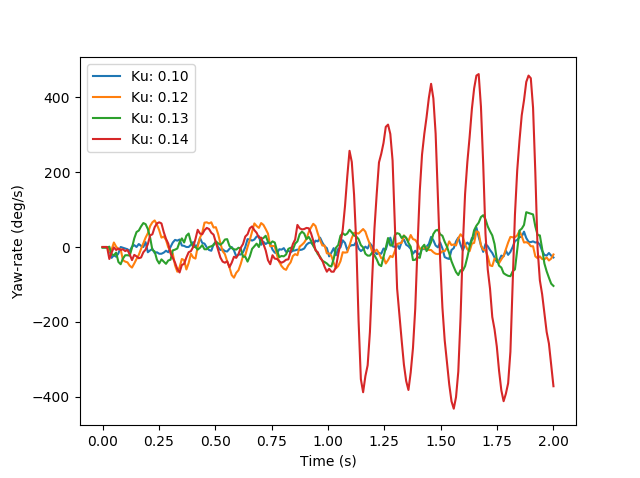
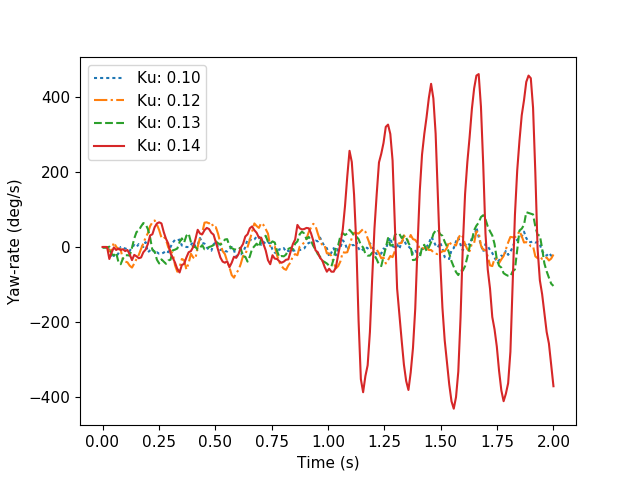
Make figures uniform

diff --git a/Code/Python/Plot pid data/plot_pid_data.py b/Code/Python/Plot pid data/plot_pid_data.py
@@ -111,7 +111,7 @@ if 0:
     plt.plot(data)
     plt.show()
 
-if 0:
+if 1:
     data1 = read_list_csv("pid_data/straight_kp010_osc_200.csv")
     data2 = read_list_csv("pid_data/straight_kp012_osc_200.csv")
     data3 = read_list_csv("pid_data/straight_kp013_osc_200.csv")
@@ -119,23 +119,27 @@ if 0:
 
     plt.figure(1)
     x = np.linspace(0, 2, 200)
-    plt.plot(x, data1)
-    plt.plot(x, data2)
-    plt.plot(x, data3)
-    plt.plot(x, data4)
+    plt.plot(x, data1, ':')
+    plt.plot(x, data2, '-.')
+    plt.plot(x, data3, '--')
+    plt.plot(x, data4, '-')
 
-    plt.ylabel('Yaw-rate (deg/s)')
-    plt.xlabel('Time (s)')
-    plt.legend(('Ku: 0.10', 'Ku: 0.12','Ku: 0.13', 'Ku: 0.14'))
+    plt.ylabel('Yaw-rate (deg/s)', fontsize=11)
+    plt.xlabel('Time (s)', fontsize=11)
+    plt.xticks(fontsize=11)
+    plt.yticks(fontsize=11)
+    plt.legend(('Ku: 0.10', 'Ku: 0.12','Ku: 0.13', 'Ku: 0.14'), loc='upper left', fontsize=11)
 
     plt.figure(2)
     # avg = savgol_filter(data3, 5, 2)  # window size 51, polynomial order 3
     data5 = read_list_csv("pid_data/straight_kp013_tu20_200.csv")
 
-    plt.plot(x, data3)
-    plt.plot(x, data5)
-    plt.ylabel('Yaw-rate (deg/s)')
-    plt.xlabel('Time (s)')
-    plt.legend(('Ku: 0.13, Tu = 0', 'Ku: 0.13, Tu = 0.20'))
+    plt.plot(x, data3, ':')
+    plt.plot(x, data5, '-.')
+    plt.ylabel('Yaw-rate (deg/s)', fontsize=11)
+    plt.xlabel('Time (s)', fontsize=11)
+    plt.xticks(fontsize=11)
+    plt.yticks(fontsize=11)
+    plt.legend(('Ku: 0.13, Tu = 0', 'Ku: 0.13, Tu = 0.20'), loc='upper left', fontsize=11)
 
     plt.show()

diff --git a/Latex/Thesis/chapters/implementation.tex b/Latex/Thesis/chapters/implementation.tex
@@ -246,13 +246,13 @@ The tuning process was sped up by setting the minimum motor duty-cycle as it mad
 
 %TODO -Add figure with critcial gain + mark period Tu
 
-\begin{figure}[!tbp]
-	\begin{subfigure}[b]{0.5\textwidth}
+\begin{figure}
+	\begin{subfigure}[b]{0.49\textwidth}
 		\includegraphics[width=\textwidth]{pics/straight_ku.png}
 		\caption{Increase Ku until oscillation}
 		\label{fig:ultimate_gain}
 	\end{subfigure}
-	\begin{subfigure}[b]{0.5\textwidth}
+	\begin{subfigure}[b]{0.49\textwidth}
 		\includegraphics[width=\textwidth]{pics/straight_ku_with_tu.png}
 		\caption{Find period}
 		\label{fig:gain_tuning}
